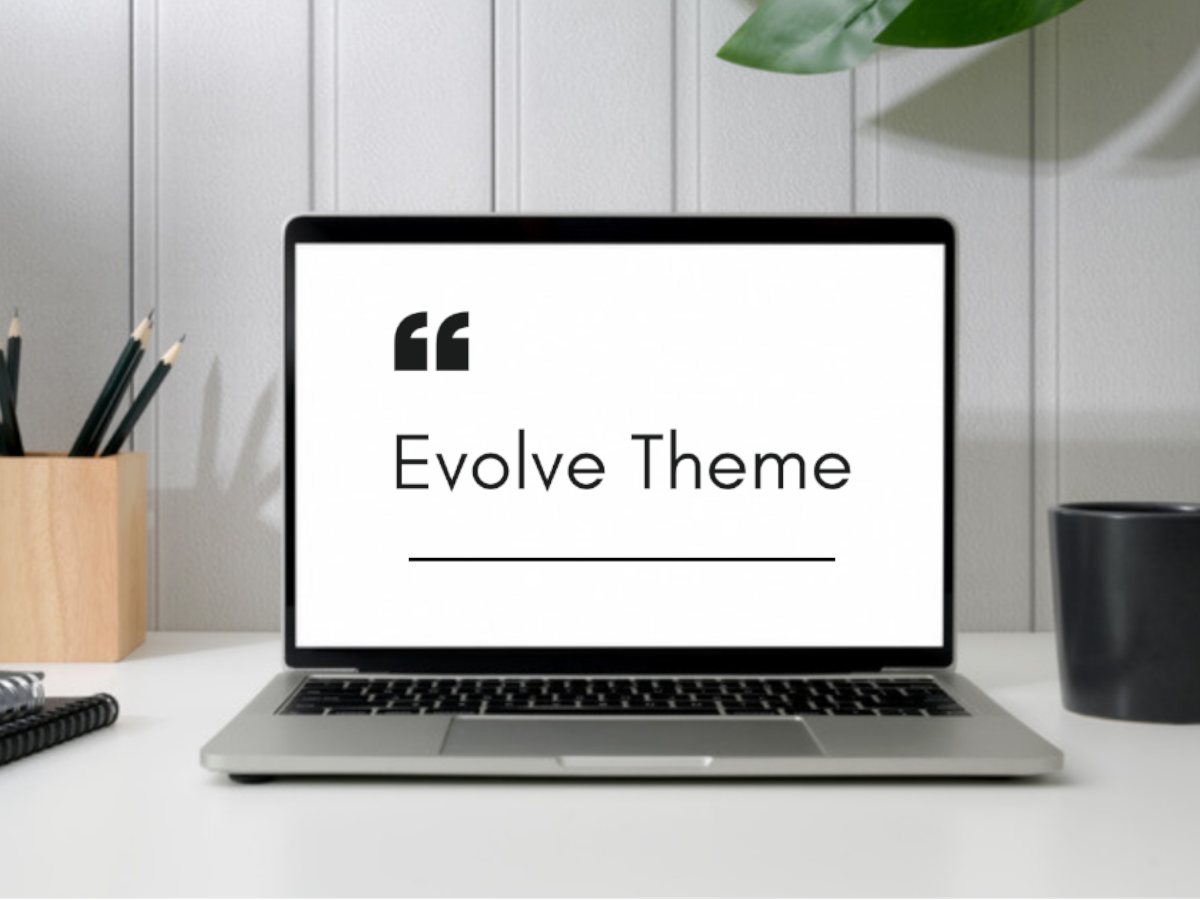
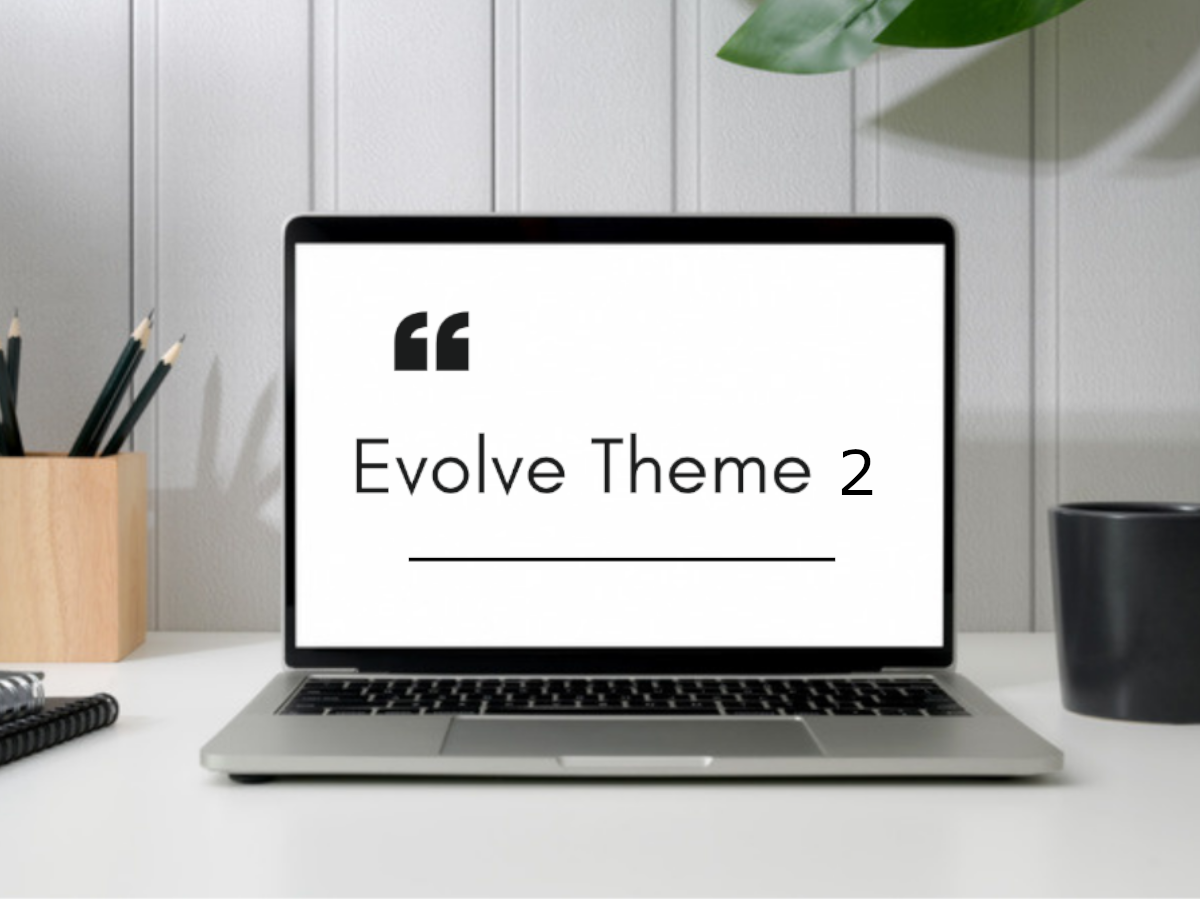
cambio immagine

Changed region(s): [[0.2775, 0.4667, 0.74, 0.56]]

diff --git a/wp-content/themes/themeEditor/style.css b/wp-content/themes/themeEditor/style.css
@@ -1,5 +1,5 @@
 /*
-    Theme Name: Evolve Theme
+    Theme Name: Evolve Theme 2
     Author: Modonesi, Mondini, Zanini
     Version: 1.0
 */
